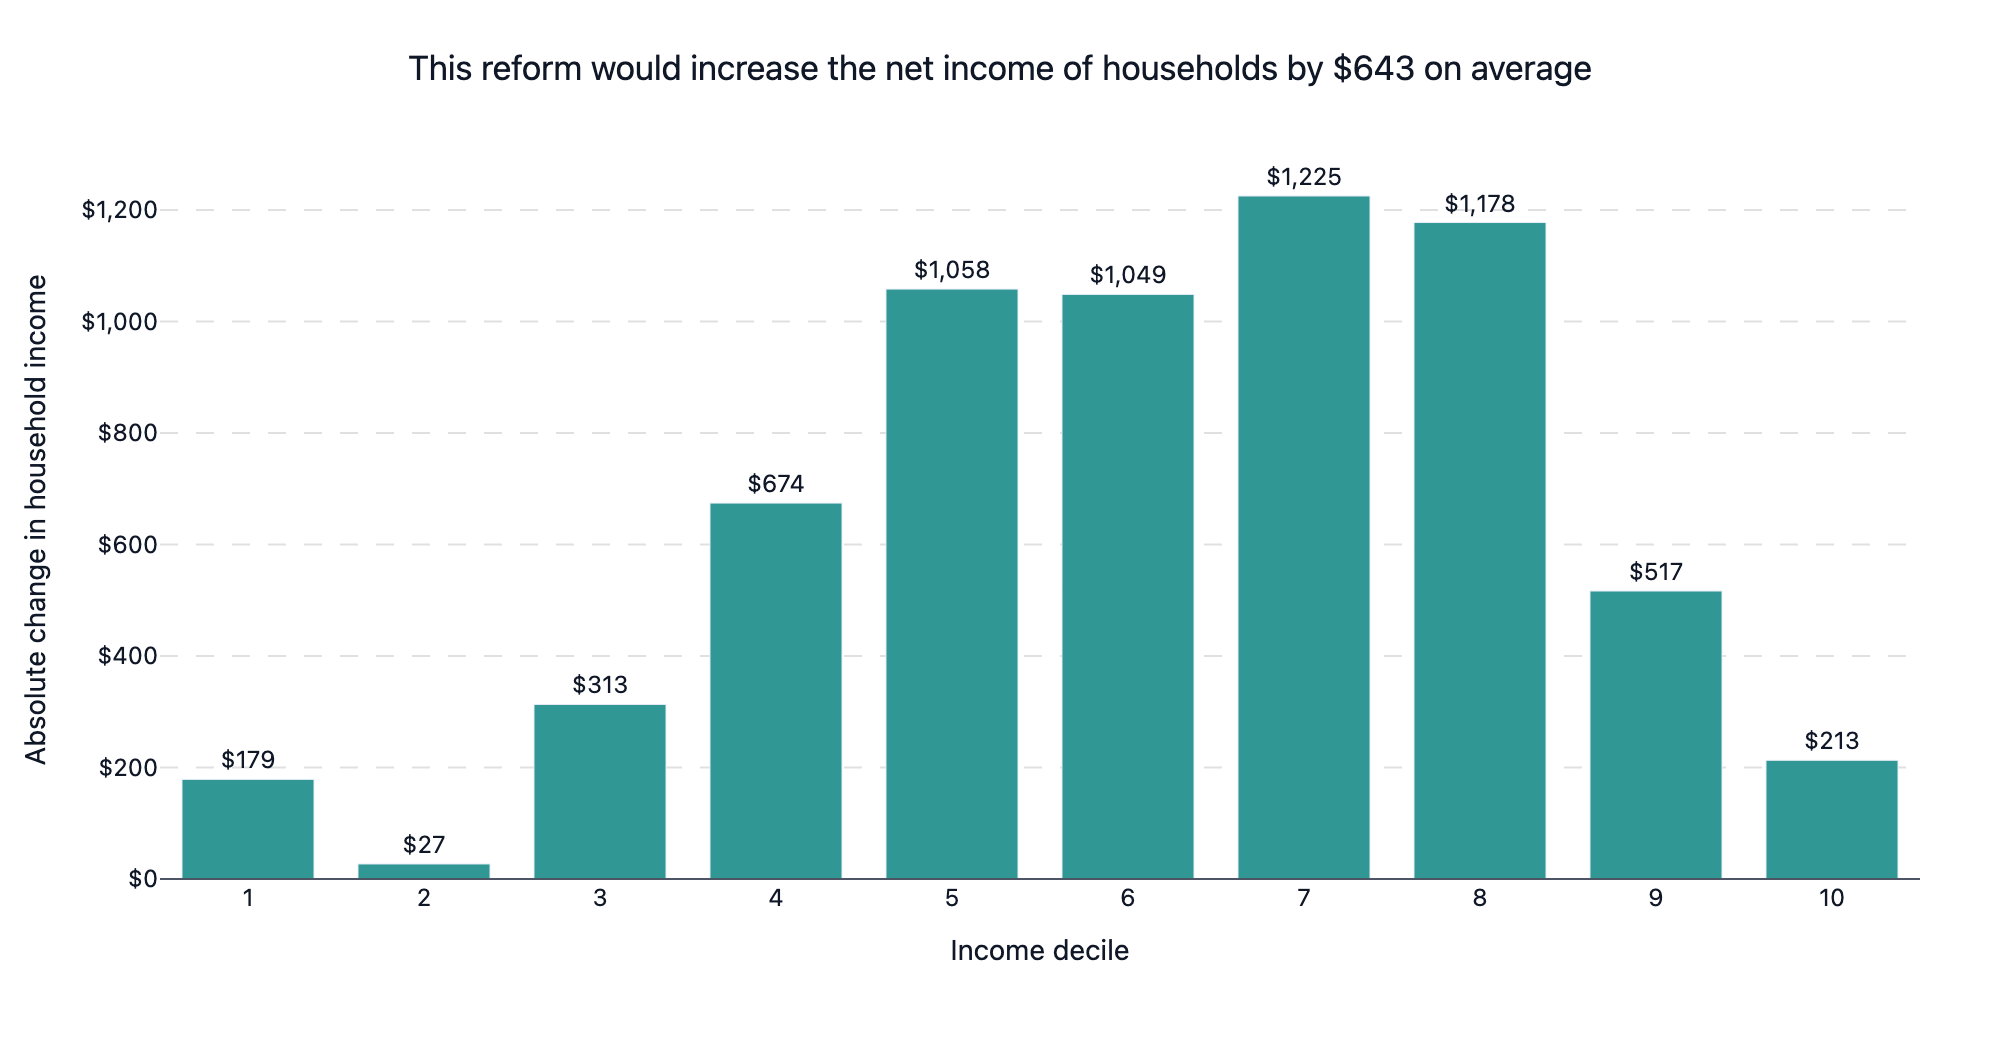
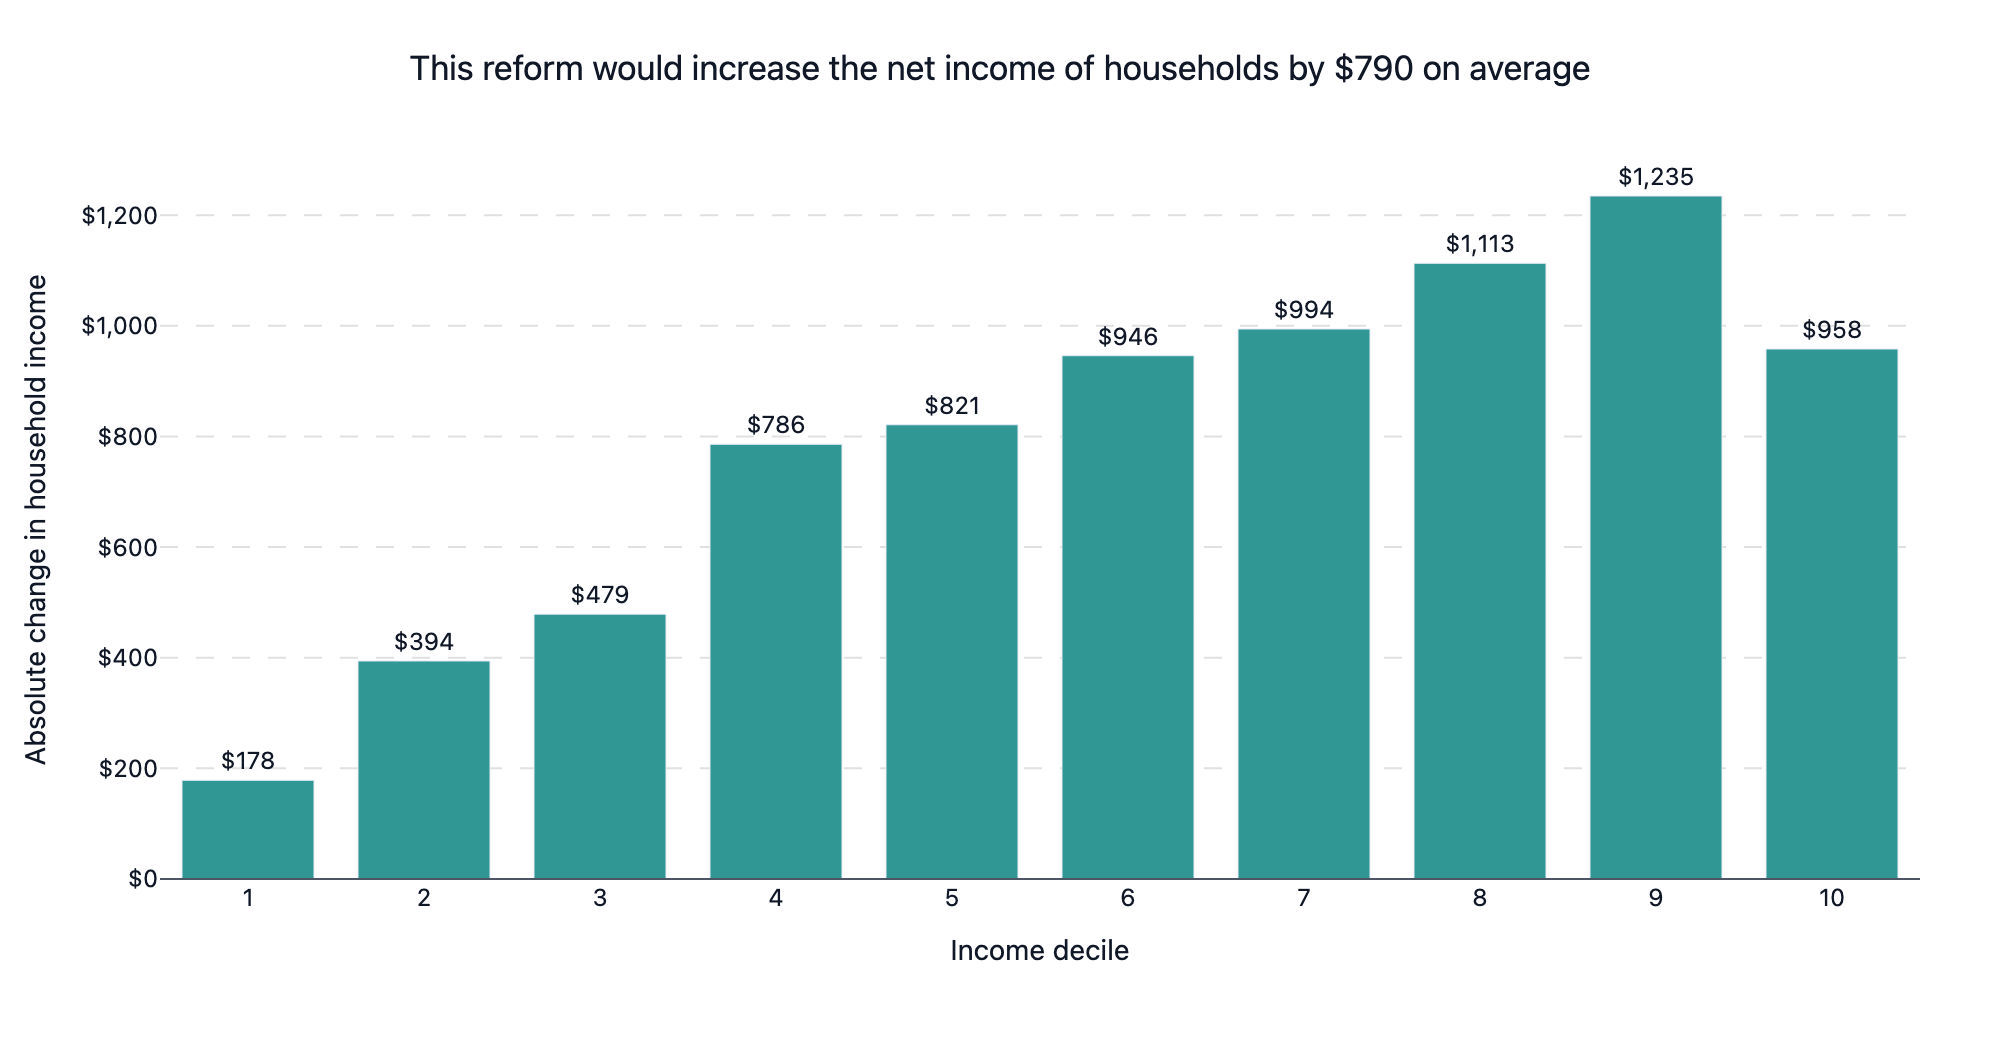
Show what the US examples print with policyengine 6.20.3
Regenerate pythonGuideUsOutputs.js and the decile chart from three runs
of run_examples.py with policyengine 6.20.3 and policyengine-us 2.2.2:
the full run, then re-runs of the SNAP enrollment block and the program
totals blocks after their code changed. Every recorded block's code
matches the page. The time-series example did not run, so the page shows
no output for it. The runner's docstring now gives the measured block
times instead of an estimate.

diff --git a/src/utils/pythonGuideUsOutputs.js b/src/utils/pythonGuideUsOutputs.js
@@ -1,19 +1,35 @@
 // Generated by scripts/python-guide/write_outputs.py; do not edit by hand.
 // What each US example on /us/python printed when run_examples.py ran it
-// with policyengine 6.16.1 and policyengine-us 2.2.1.
+// with policyengine 6.20.3 and policyengine-us 2.2.2.
 // A block with no entry raised, printed nothing, or didn't run, and the
 // page shows no output for it.
 
 export const PYTHON_GUIDE_US_RUN = {
-  "policyengine": "6.16.1",
-  "policyengineUs": "2.2.1",
-  "lastBlockFinishedAt": "2026-11-09T14:53:34-0500"
+  "policyengine": "6.20.3",
+  "policyengineUs": "2.2.2",
+  "lastBlockFinishedAt": "2026-11-27T13:31:59+0100"
 };
 
 export const PYTHON_GUIDE_US_OUTPUTS = {
-  "repro.manifests": "runtime bundle: us-6.16.1\ncertified data: microcosm-data 0.1.0\ncertified model version: 2.2.1\ndataset sha256: 6496cc4393d4d3c6 ...\ncompatibility basis: built_with_model_package\ndata manifest package: microcosm-data 0.1.0\nbuilt with model: 2.2.1",
+  "setup.dataset": "        weight  household_net_income  household_tax\n0  6784.064453         349421.156250  149333.750000\n1     0.001621          50650.976562   -1261.610718\n2     0.009034         125553.078125   49768.152344\n3  7689.427246         176766.531250    7781.621094\n4     0.516521         127581.367188   24698.287109",
+  "setup.alignment": "us-6.20.3\nMicroDataFrame",
+  "outputs.axis": "{'person': 166321, 'tax_unit': 79729, 'spm_unit': 59900, 'household': 57240}\nperson variables: ['employment_income', 'ssi', 'medicare_cost']\ntax-unit variables: ['income_tax', 'state_income_tax', 'eitc']\nhousehold variables: ['household_net_income', 'household_tax']",
+  "outputs.mapping": "        weight  snap\n0  6784.064453   0.0\n1     0.001621   0.0\n2     0.009034   0.0\n3  7689.427246   0.0\n4     0.516521   0.0\n        weight  household_tax\n0  6784.064453  149333.750000\n1  6784.064453  149333.750000\n2  6784.064453  149333.750000\n3  6784.064453  149333.750000\n4     0.009034   49768.152344",
+  "outputs.pandas": "        weight  household_net_income  household_weight\n0  6784.064453         349421.156250       6784.064453\n1     0.001621          50650.976562          0.001621\n2     0.009034         125553.078125          0.009034\n3  7689.427246         176766.531250       7689.427246\n4     0.516521         127581.367188          0.516521\nMicroSeries mean: $139,861\nPlain pandas mean (unweighted): $158,366\nManual pandas mean: $139,861",
+  "metrics.weighting": "MicroSeries\nWeighted total EITC: $68.3B\nWeighted mean EITC: $413",
+  "metrics.aggregate": "Total EITC: $68.3B",
+  "metrics.enrollment": "People in SPM units receiving SNAP: 62,235,896\nChildren among them: 24,812,466\n   snap  is_child  person_weight\n0   0.0     False    6784.064453\n1   0.0     False    6784.064453\n2   0.0      True    6784.064453\n3   0.0      True    6784.064453\n4   0.0     False       0.009034",
+  "reforms.economic_impact": " decile  baseline_mean   reform_mean  absolute_change\n      1    26258.28952  26436.678321       178.388801\n      2   47356.804377   47750.94544       394.141063\n      3   61274.774406  61753.578825       478.804419\n      4   76258.851653  77044.711686       785.860033\n      5   93884.482803  94705.658606       821.175803\n        program_name  baseline_total  reform_total        change\n          income_tax    2.610935e+12  2.519443e+12 -9.149107e+10\nemployee_payroll_tax    8.521267e+11  8.521267e+11  0.000000e+00\n    state_income_tax    6.138632e+11  6.122106e+11 -1.652548e+09\n                snap    1.001791e+11  1.001791e+11  0.000000e+00\n                tanf    5.045531e+09  5.045531e+09  0.000000e+00\nbaseline Gini: 0.4746, reform Gini: 0.4734",
+  "reforms.program": "           program_name  baseline_total  reform_total        change\n0            income_tax    2.610935e+12  2.519443e+12 -9.149107e+10\n1  employee_payroll_tax    8.521267e+11  8.521267e+11  0.000000e+00\n2      state_income_tax    6.138632e+11  6.122106e+11 -1.652548e+09\n3                  snap    1.001791e+11  1.001791e+11  0.000000e+00\n4                  tanf    5.045531e+09  5.045531e+09  0.000000e+00",
+  "regions.regional": "California EITC: $6.8B",
+  "repro.pin_bundle": "bundle_id: us-6.20.3\ncountry: us\nmodel: policyengine-us 2.2.2\ndata: microcosm-data 0.1.0\ncompatibility basis: legacy_compatible_model_package",
+  "repro.manifests": "runtime bundle: us-6.20.3\ncertified data: microcosm-data 0.1.0\ncertified model version: 2.2.2\ndataset sha256: 6496cc4393d4d3c6 ...\ncompatibility basis: legacy_compatible_model_package\ndata manifest package: microcosm-data 0.1.0\nbuilt with model: 2.2.1",
   "repro.trace_export": "wrote TRO to outputs/trace.tro.jsonld\ncountry: us",
-  "repro.trace_cli": "# policyengine release-manifest us  (first 5 lines)\n{\n  \"bundle_id\": \"us-6.16.1\",\n  \"certification\": {\n    \"built_with_model_git_sha\": null,\n    \"built_with_model_version\": \"2.2.1\",\n...\n\n# policyengine trace-tro us --out us.trace.tro.jsonld  (prints nothing)\n\n# policyengine trace-tro-validate us.trace.tro.jsonld\nok: us.trace.tro.jsonld"
+  "repro.trace_cli": "# policyengine release-manifest us  (first 5 lines)\n{\n  \"bundle_id\": \"us-6.20.3\",\n  \"certification\": {\n    \"built_with_model_git_sha\": null,\n    \"built_with_model_version\": \"2.2.1\",\n...\n\n# policyengine trace-tro us --out us.trace.tro.jsonld  (prints nothing)\n\n# policyengine trace-tro-validate us.trace.tro.jsonld\nok: us.trace.tro.jsonld",
+  "repro.simulation_tro": "bundle fingerprint: 118807f5c952887c ...\npolicyengine version: 6.20.3\nwrote simulation TRO",
+  "reference.release_bundle": "bundle_id: us-6.20.3\npolicyengine_version: 6.20.3\nmodel_package: policyengine-us\nmodel_version: 2.2.2\ndata_package: microcosm-data\ndata_version: 0.1.0\ncompatibility_basis: legacy_compatible_model_package"
 };
 
-export const PYTHON_GUIDE_US_IMAGES = {};
+export const PYTHON_GUIDE_US_IMAGES = {
+  "visualization.deciles": "/python-guide/us-decile-impacts-chart.png"
+};

diff --git a/scripts/python-guide/run_examples.py b/scripts/python-guide/run_examples.py
@@ -21,14 +21,16 @@ in the work folder as us-decile-impacts-chart.png at the size of the chart
 the page shipped before (2000 x 1040: 1000 x 520 at scale 2).
 
 Several examples build the same simulation again: the same dataset file and
-year, the same model object, and the same policy. A full US run took about
-30 minutes on the machine that produced the published outputs, so the runner
-wraps Simulation.ensure() to reuse a finished run when every input field
-matches one that already ran. It copies the same three fields ensure()'s own
-in-memory cache restores (output_dataset, spm and spm_receipt). Inputs that
-differ in any field, such as the regional example's extra_variables or a
-reform, run on their own. The runner logs each reuse to stderr and records it
-on the block, so outputs.json says which outputs came from a reused run.
+year, the same model object, and the same policy. The full US run with
+policyengine 6.20.3 spent about 38 minutes in its blocks: about 10 building
+the baseline, 11 on the economic-impact example, 13 on the decile chart and
+4 on the regional example. So the runner wraps Simulation.ensure() to reuse a
+finished run when every input field matches one that already ran. It copies
+the same three fields ensure()'s own in-memory cache restores
+(output_dataset, spm and spm_receipt). Inputs that differ in any field, such
+as the regional example's extra_variables or a reform, run on their own. The
+runner logs each reuse to stderr and records it on the block, so outputs.json
+says which outputs came from a reused run.
 """
 
 import contextlib
